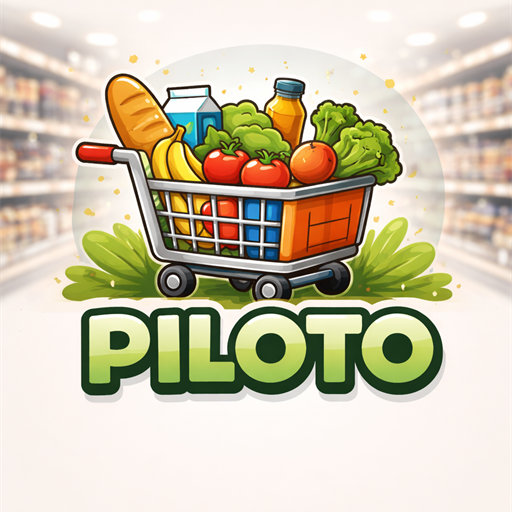
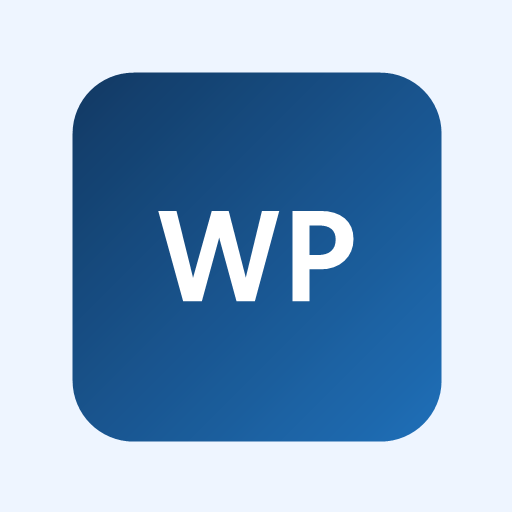
Updates

diff --git a/index.html b/index.html
@@ -19,8 +19,8 @@
         background: #eef5ff;
       }
     </style>
-    <script type="module" crossorigin src="/WebAgente/assets/index-BIW64e-C.js"></script>
-    <link rel="stylesheet" crossorigin href="/WebAgente/assets/index-DJ120FJy.css">
+    <script type="module" crossorigin src="/WebAgente/assets/index-ioangDfd.js"></script>
+    <link rel="stylesheet" crossorigin href="/WebAgente/assets/index-BY648xO2.css">
   </head>
   <body>
     <div id="root"></div>

diff --git a/sw.js b/sw.js
@@ -1,4 +1,4 @@
-const CACHE_NAME = 'webagente-cache-v4';
+const CACHE_NAME = 'webagente-cache-v5';
 const SW_SCOPE_PATH = self.location.pathname.replace(/sw\.js$/, '');
 const INDEX_FALLBACK = `${SW_SCOPE_PATH}index.html`;
 const APP_SHELL = [

diff --git a/assets/index-BY648xO2.css b/assets/index-BY648xO2.css
@@ -1,0 +1,1 @@
+:root{font-family:Segoe UI,Tahoma,Geneva,Verdana,sans-serif;color:#102a43;background-color:#f3f7fb}*{box-sizing:border-box}body{margin:0}html,body,#root{width:100%;max-width:100%;overflow-x:hidden}.sr-only{position:absolute;width:1px;height:1px;padding:0;margin:-1px;overflow:hidden;clip:rect(0,0,0,0);white-space:nowrap;border:0}.launch-shell{min-height:100vh;display:grid;place-items:center;padding:1rem;background:radial-gradient(circle at 20% 15%,rgba(66,153,225,.24),transparent 36%),radial-gradient(circle at 82% 82%,rgba(99,179,237,.2),transparent 34%),linear-gradient(145deg,#f7fbff,#eef5ff 42%,#f8fbff)}.launch-shell--overlay{position:fixed;top:0;right:0;bottom:0;left:0;z-index:9999}.launch-card{width:min(100%,420px);border:1px solid #d4e3f7;border-radius:18px;background:#ffffffeb;box-shadow:0 14px 36px #0f4c812e;padding:1.3rem 1rem 1rem;text-align:center;-webkit-backdrop-filter:blur(4px);backdrop-filter:blur(4px)}.launch-logo-wrap{position:relative;width:90px;height:90px;margin:0 auto .9rem;display:grid;place-items:center}.launch-logo-ring{position:absolute;top:0;right:0;bottom:0;left:0;border-radius:50%;border:3px solid rgba(66,153,225,.35);border-top-color:#1d5fa6;animation:launch-spin 1.2s linear infinite}.launch-logo{width:62px;height:62px;border-radius:16px;display:grid;place-items:center;font-size:1rem;font-weight:700;color:#fff;background:linear-gradient(135deg,#123963,#1f6fb8);box-shadow:0 10px 18px #0f4c8147}.launch-card h1{margin:0 0 .34rem;color:#102a43;font-size:1.3rem}.launch-card p{margin:0;color:#486581;font-size:.88rem}.launch-loader{margin:1rem auto 0;width:min(90%,280px);height:9px;border-radius:999px;background:#dbe9f7;overflow:hidden}.launch-loader span{display:block;width:40%;height:100%;border-radius:inherit;background:linear-gradient(90deg,#1b5e9f,#54a3df);animation:launch-slide 1.4s ease-in-out infinite}@keyframes launch-spin{to{transform:rotate(360deg)}}@keyframes launch-slide{0%{transform:translate(-120%)}50%{transform:translate(140%)}to{transform:translate(-120%)}}.home-shell{min-height:100vh;padding:.7rem;display:grid;place-items:start center}.home-card{background:#fff;border:1px solid #d7e3f0;border-radius:12px;padding:.85rem;max-width:1180px;margin:0 auto}.home-card--wide{width:100%;overflow-x:clip}.home-topbar{display:grid;grid-template-columns:auto 1fr auto;align-items:center;gap:.6rem;margin-bottom:.7rem}.home-topbar-brand{display:flex;align-items:center;gap:.45rem;min-width:0}.home-topbar-brand div{min-width:0}.home-topbar-brand strong{display:block;max-width:100%;white-space:nowrap;overflow:hidden;text-overflow:ellipsis}.home-desktop-nav{display:flex;justify-content:center;gap:.35rem}.home-desktop-nav button{border:1px solid #c5d2e2;background:#f8fbff;border-radius:999px;padding:.35rem .65rem;font-size:.76rem}.home-desktop-nav .home-desktop-nav-active{background:#0f4c81;border-color:#0f4c81;color:#fff}.home-user-menu{position:relative}.home-user-trigger{width:36px;height:36px;border-radius:999px;border:1px solid #c5d2e2;background:#f8fbff;display:grid;place-items:center;color:#1f4e79}.home-user-dropdown{position:absolute;top:calc(100% + .35rem);right:0;z-index:20;width:170px;border:1px solid #d7e3f0;border-radius:10px;background:#fff;padding:.5rem;box-shadow:0 8px 22px #102a431f}.home-user-dropdown p{margin:0 0 .45rem;color:#334e68;font-size:.78rem}.home-user-dropdown button{display:inline-flex;align-items:center;justify-content:center;gap:.35rem;width:100%;border:1px solid #e8b7b7;background:#fff6f6;color:#9b1c1c;border-radius:8px;padding:.4rem .5rem;font-size:.76rem}.home-user-dropdown-manual{border:1px solid #f2c37e!important;background:#fffaf0!important;color:#8a4b00!important;margin-bottom:.38rem}.home-user-dropdown-logout{border:1px solid #e8b7b7!important;background:#fff6f6!important;color:#9b1c1c!important}.store-brand-logo{width:32px;height:32px;border-radius:9px;background:linear-gradient(135deg,#0f4c81,#1f7cc7);color:#fff;display:grid;place-items:center;font-size:.72rem;font-weight:700}.store-brand-user{display:block;color:#5b708b;font-size:.72rem;max-width:130px;white-space:nowrap;overflow:hidden;text-overflow:ellipsis}.store-search input{width:100%;border:1px solid #c5d2e2;border-radius:999px;padding:.55rem .8rem;font-size:.86rem;min-width:0}.store-search--catalog{display:block;margin-bottom:.45rem;position:sticky;top:.35rem;z-index:12;background:#fff;padding:.25rem 0}.store-metrics{display:flex;gap:.4rem;overflow-x:auto;margin-bottom:.55rem}.store-metrics p{margin:0;border:1px solid #dce6f2;background:#f8fbff;border-radius:999px;padding:.25rem .55rem;font-size:.75rem;white-space:nowrap}.store-metrics-delivery--on{border-color:#8bd6b3!important;background:#eefaf3!important;color:#18794e!important}.store-metrics-delivery--off{border-color:#f1b4b4!important;background:#fff1f1!important;color:#b42318!important}.store-categories{display:grid;gap:.2rem;margin-bottom:.45rem}.store-category-select{color:#486581;font-size:.78rem;font-weight:600}.store-category-menu{position:relative}.store-category-trigger{width:100%;border:1px solid #c5d2e2;background:#fff;border-radius:10px;padding:.55rem .65rem;display:flex;justify-content:space-between;align-items:center;color:#102a43;font-size:.8rem}.store-category-panel{position:absolute;top:calc(100% + .25rem);left:0;right:0;z-index:25;border:1px solid #d7e3f0;background:#fff;border-radius:10px;box-shadow:0 8px 22px #102a431f;max-height:260px;overflow-y:auto;padding:.35rem}.store-category-option{width:100%;border:0;background:transparent;border-radius:8px;padding:.45rem .5rem;text-align:left;color:#243b53;font-size:.79rem}.store-category-option.active{background:#e8f1fb;color:#0b5b93;font-weight:700}.store-category-option--group{display:flex;justify-content:space-between;align-items:center}.store-category-subgroup{padding-left:.45rem}.store-category-option--sub{font-size:.76rem}.store-category-arrow{transition:transform .18s ease}.store-category-arrow.open{transform:rotate(180deg)}.home-error{color:#b42318;font-weight:600}.home-success{color:#067647;font-weight:600}.products-grid{list-style:none;padding:0;margin:1rem 0 0;display:grid;gap:.55rem;grid-template-columns:repeat(3,minmax(0,1fr))}.product-card{border:1px solid #dce6f2;border-radius:10px;padding:.45rem;display:grid;gap:.35rem;background:#fff;box-shadow:0 4px 14px #102a430f}.product-card-image-wrap{width:100%;min-height:0;border-radius:9px;overflow:hidden;background:#ecf3fb;position:relative}.product-card-image-wrap:before{content:"";display:block;padding-top:100%}.product-card-image{max-width:100%;max-height:100%;width:100%!important;height:100%!important;position:absolute;top:0;right:0;bottom:0;left:0;object-fit:cover;object-position:center center;display:block}.product-card-image--placeholder{position:absolute;top:0;right:0;bottom:0;left:0;display:grid;place-items:center;font-size:.72rem;color:#6c7a89;background:#ecf3fb}.product-card-name{font-size:.74rem;line-height:1.2;min-height:2.5em;display:-webkit-box;-webkit-line-clamp:2;-webkit-box-orient:vertical;overflow:hidden;color:#102a43}.product-card-price{color:#0b5b93;font-weight:700;font-size:.86rem}.product-card-add{border:1px solid #0b5b93;background:#0b5b93;color:#fff;border-radius:8px;padding:.38rem .3rem;font-size:.7rem;font-weight:600;width:100%}.product-card-edit{border:1px solid #486581;background:#f8fbff;color:#243b53;border-radius:8px;padding:.36rem .3rem;font-size:.7rem;font-weight:600;width:100%}.product-card-add--selected{border-color:#18794e;background:#18794e}.modal-backdrop{position:fixed;top:0;right:0;bottom:0;left:0;z-index:200;background:#102a4373;display:grid;place-items:center;padding:.6rem}.modal-card{width:min(100%,420px);background:#fff;border:1px solid #d7e3f0;border-radius:12px;padding:.8rem;box-shadow:0 10px 26px #102a4338}.modal-card h3{margin:0 0 .55rem}.modal-form{display:grid;gap:.55rem}.modal-form label{display:grid;gap:.22rem;font-size:.82rem;color:#334e68}.modal-form input,.modal-form select{border:1px solid #c5d2e2;border-radius:8px;padding:.42rem .5rem}.modal-actions{display:flex;gap:.45rem;justify-content:flex-end}.modal-actions button{border:1px solid #0f4c81;background:#0f4c81;color:#fff;border-radius:8px;padding:.42rem .62rem;font-size:.76rem}.modal-actions button[type=button]{border-color:#c5d2e2;background:#f8fbff;color:#334e68}.product-card-add:disabled{opacity:1;cursor:not-allowed}.catalog-toast{position:fixed;left:50%;transform:translate(-50%);bottom:calc(76px + env(safe-area-inset-bottom));z-index:160;margin:0;border:1px solid #b7ebca;background:#e9f9ef;color:#18794e;border-radius:999px;padding:.44rem .7rem;font-size:.78rem;font-weight:700;box-shadow:0 8px 20px #102a4324;pointer-events:none;white-space:nowrap}@media (min-width: 761px){.catalog-toast{bottom:1rem}}.inactive-shell{margin-top:.4rem}.inactive-header{display:flex;justify-content:space-between;align-items:baseline;gap:.5rem}.inactive-header h2,.inactive-header p{margin:0}.inactive-header p{color:#5b708b;font-size:.9rem}.inactive-tag{font-size:.72rem;color:#9f1239;font-weight:700}.inactive-actions{display:flex;justify-content:center;margin-top:.8rem}.inactive-actions button{border:1px solid #0f4c81;background:#0f4c81;color:#fff;border-radius:999px;padding:.45rem .9rem;font-size:.82rem}.inactive-actions button:disabled{opacity:.7}.products-load-sentinel{height:1px}.catalog-v2-category-wrap{display:grid;gap:.32rem;margin:.55rem 0 .75rem}.catalog-v2-category-label{font-size:.76rem;font-weight:700;color:#334e68}.catalog-v2-category-select{border:1px solid #c5d2e2;border-radius:10px;background:#f8fbff;color:#102a43;font-size:.82rem;padding:.5rem .62rem}.cart-panel{margin-top:.85rem;border:1px solid #dce6f2;border-radius:14px;padding:.85rem;background:linear-gradient(180deg,#fff,#f9fcff);box-shadow:0 8px 24px #102a4314}.cart-panel-header{display:flex;justify-content:space-between;align-items:center;gap:.5rem}.cart-panel-header h2{margin:0;font-size:1rem}.cart-panel-header span{background:#e8f1fb;color:#0b5b93;border:1px solid #c6def3;border-radius:999px;font-size:.74rem;font-weight:700;padding:.2rem .5rem}.cart-list{list-style:none;padding:0;margin:.75rem 0;display:grid;gap:.55rem}.cart-item{border:1px solid #dce6f2;border-radius:10px;padding:.62rem;display:grid;grid-template-columns:56px 1fr auto;align-items:center;gap:.5rem;background:#fff;box-shadow:0 3px 10px #102a430d}.cart-actions{display:flex;gap:.35rem;align-items:center}.cart-item-thumb{width:56px;height:56px;border-radius:10px;object-fit:cover;border:1px solid #d7e3f0;background:#eef4fb}.cart-item-thumb--placeholder{display:grid;place-items:center;font-size:.62rem;color:#6c7a89}.cart-item-info{display:grid;gap:.15rem}.cart-item-info strong{font-size:.82rem;color:#102a43}.cart-item-info span{font-size:.74rem;color:#486581}.cart-qty-button{width:30px;height:30px;border-radius:8px;border:1px solid #b6d3ef;background:#f3f8fd;color:#0b5b93;font-weight:700}.cart-total{display:flex;justify-content:space-between;align-items:center;margin:.35rem 0 .2rem;border:1px solid #c6def3;background:#eef6ff;border-radius:10px;padding:.55rem .65rem}.cart-total span{color:#486581;font-size:.8rem}.cart-total strong{color:#0b5b93;font-size:1rem}.checkout-options-block{margin:.62rem 0}.checkout-options-title{margin:0 0 .35rem;font-size:.8rem;color:#334e68}.checkout-options-hint{margin:0 0 .38rem;font-size:.72rem;color:#b42318}.checkout-options-grid{display:grid;grid-template-columns:repeat(2,minmax(0,1fr));gap:.4rem}.checkout-options-grid--two{grid-template-columns:repeat(2,minmax(0,1fr))}.checkout-option{border:1px solid #c5d2e2;background:#f8fbff;color:#334e68;border-radius:10px;padding:.45rem .5rem;min-height:44px;display:grid;grid-template-columns:auto 1fr auto;align-items:center;gap:.35rem;font-size:.76rem;font-weight:700}.checkout-option:disabled{opacity:.6;cursor:not-allowed}.checkout-option-icon{width:20px;height:20px;display:grid;place-items:center;color:#486581}.checkout-option-check{width:18px;height:18px;border-radius:999px;border:1px solid #c9d7e5;display:grid;place-items:center;color:transparent;background:#fff}.checkout-option-check--visible{color:#0f8a55;border-color:#8bd6b3;background:#e8f8f0}.checkout-option--selected{border-color:#8bd6b3;background:#eefaf3;color:#18794e}.checkout-option--selected .checkout-option-icon{color:#18794e}.cart-submit-button{width:100%;border:none;border-radius:12px;padding:.7rem .8rem;font-size:.84rem;font-weight:700;color:#fff;background:linear-gradient(135deg,#0b5b93,#0f4c81);box-shadow:0 10px 20px #0b5b934d}.cart-submit-button:disabled{opacity:.65;box-shadow:none}.auth-card{width:min(100%,460px);background:#fff;border:1px solid #d7e3f0;border-radius:12px;padding:1.25rem}.auth-switch{display:flex;gap:.5rem;margin:.75rem 0}.auth-switch button{border:1px solid #c5d2e2;background:#f8fbff;border-radius:8px;padding:.45rem .7rem}.auth-form{display:grid;gap:.75rem}.auth-form label{display:grid;gap:.35rem}.auth-form input{border:1px solid #c5d2e2;border-radius:8px;padding:.45rem .55rem}.auth-form button{border:1px solid #0f4c81;background:#0f4c81;color:#fff;border-radius:8px;padding:.55rem .75rem}.auth-form button:disabled{opacity:.65}.auth-remember{display:flex!important;align-items:center;gap:.45rem!important;font-size:.92rem;color:#334e68}.auth-remember input[type=checkbox]{width:16px;height:16px}.auth-error{color:#b42318;margin-top:.65rem;font-weight:600}.auth-password-rules{margin:0;padding-left:1rem;display:grid;gap:.2rem;color:#5b708b;font-size:.9rem}.auth-password-rules .ok{color:#067647;font-weight:600}.mobile-bottom-nav{position:fixed;left:0;right:0;bottom:max(0px,env(safe-area-inset-bottom));z-index:120;width:100vw;max-width:100vw;display:none;grid-template-columns:repeat(3,minmax(0,1fr));gap:.3rem;padding:.45rem .45rem calc(.45rem + env(safe-area-inset-bottom));border-radius:12px 12px 0 0;border:1px solid #d7e3f0;border-bottom:0;background:#fffffff2;box-shadow:0 -4px 18px #102a431a}.mobile-bottom-nav button{border:none;background:transparent;border-radius:10px;padding:.5rem .3rem;min-height:56px;font-size:.68rem;font-weight:600;color:#486581;display:grid;place-items:center;gap:.18rem}.mobile-bottom-nav button span{display:inline-flex;align-items:center;gap:.3rem}.mobile-bottom-nav .mobile-bottom-nav-active{background:#0f4c81;color:#fff}.mobile-nav-badge{display:inline-grid;place-items:center;min-width:18px;height:18px;border-radius:999px;background:#d9ecff;color:#0f4c81;font-size:.62rem;font-weight:700;padding:0 5px}@media (min-width: 900px){.home-shell,.home-card{padding:1rem}.product-card-name{font-size:.8rem}}@media (max-width: 760px){.home-topbar{grid-template-columns:minmax(0,1fr) auto;gap:.45rem}.home-desktop-nav{display:none}.mobile-bottom-nav{display:grid}.home-card{padding-bottom:6.1rem}.store-metrics{flex-wrap:nowrap}}@media (max-width: 460px){.home-shell{padding:.28rem}.home-card{padding:.42rem .42rem 6rem;border-radius:10px}.home-topbar-brand{gap:.35rem}.store-brand-logo{width:28px;height:28px;font-size:.64rem}.home-topbar-brand strong{font-size:.82rem}.store-brand-user{font-size:.66rem;max-width:104px}.home-user-trigger{width:32px;height:32px}.products-grid{gap:.34rem}.store-search--catalog{top:0;margin-bottom:.35rem;padding:.18rem 0}.store-search input{padding:.46rem .6rem;font-size:.8rem}.store-metrics{display:grid;grid-template-columns:repeat(2,minmax(0,1fr));gap:.24rem;overflow:visible;margin-bottom:.4rem}.store-metrics p{width:100%;text-align:center;font-size:.66rem;padding:.2rem .32rem;min-width:0}.store-metrics p:last-child{display:block}.store-categories{margin-bottom:.35rem}.store-category-select{font-size:.72rem}.store-category-trigger{padding:.44rem .52rem;font-size:.76rem}.product-card{padding:.3rem}.mobile-bottom-nav button{min-height:52px;font-size:.64rem;gap:.12rem;padding:.42rem .2rem}}@media (max-width: 430px){.home-shell{padding:.3rem}.home-card{padding:.45rem .45rem 5.2rem;border-radius:10px}.products-grid{gap:.35rem}.product-card{padding:.3rem;border-radius:8px}.product-card-name{font-size:.64rem;min-height:2.1em}.product-card-price{font-size:.72rem}.product-card-add{font-size:.64rem;padding:.28rem .16rem}.cart-item{grid-template-columns:48px 1fr auto;gap:.4rem;padding:.5rem}.cart-item-thumb{width:48px;height:48px}}@media (max-width: 360px){.home-card{padding:.35rem .35rem 5.1rem}.store-search input{padding:.48rem .62rem;font-size:.8rem}.store-metrics p{font-size:.68rem;padding:.22rem .45rem}.store-category-trigger{padding:.48rem .55rem;font-size:.75rem}.products-grid{gap:.3rem}.product-card-image-wrap{border-radius:7px}}.orders-panel{margin-top:.85rem;border:1px solid #dce6f2;border-radius:14px;padding:.85rem;background:linear-gradient(180deg,#fff,#f9fcff);box-shadow:0 8px 24px #102a4314}.orders-panel-header{display:flex;justify-content:space-between;align-items:center;gap:.5rem}.orders-panel-header h2{margin:0;font-size:1rem}.orders-panel-header span{background:#e8f1fb;color:#0b5b93;border:1px solid #c6def3;border-radius:999px;font-size:.74rem;font-weight:700;padding:.2rem .5rem}.orders-list{list-style:none;padding:0;margin:.75rem 0;display:grid;gap:.55rem}.orders-accordion-actions{display:flex;justify-content:center;margin-top:.2rem}.orders-accordion-toggle{border:1px solid #b6d3ef;background:#f3f8fd;color:#0b5b93;border-radius:999px;padding:.32rem .74rem;font-size:.74rem;font-weight:700}.orders-item{border:1px solid #dce6f2;border-radius:10px;padding:.62rem;background:#fff;box-shadow:0 3px 10px #102a430d}.orders-item-top{display:flex;justify-content:flex-start;align-items:center;gap:.5rem;flex-wrap:wrap}.orders-item-main{border:none;background:transparent;padding:0;margin:0;display:grid;gap:.1rem;text-align:left}.orders-item-main span{font-size:.72rem;color:#6b7f95}.orders-detail-toggle{border:1px solid #b6d3ef;background:#f3f8fd;color:#0b5b93;border-radius:999px;padding:.24rem .55rem;font-size:.72rem;font-weight:700}.orders-hide-button{width:26px;height:26px;border-radius:999px;border:1px solid #e9bcbc;background:#fff5f5;color:#9b1c1c;font-size:1rem;line-height:1;display:grid;place-items:center;padding:0}.orders-hide-button:disabled{border-color:#d7dfe8;background:#f6f8fb;color:#9aa8b8;cursor:not-allowed}.orders-item-total{margin:.45rem 0 0;color:#334e68;font-size:.82rem;font-weight:600}.orders-item-details{list-style:none;margin:.55rem 0 0;padding:.45rem .5rem;border:1px solid #dce6f2;background:#f8fbff;border-radius:8px;display:grid;gap:.35rem}.orders-item-details li{display:flex;gap:.35rem;align-items:baseline}.orders-item-details li span{min-width:34px;color:#486581;font-size:.74rem}.orders-item-details li strong{color:#102a43;font-size:.78rem}.orders-item-details-empty{color:#6b7f95;font-size:.74rem}.orders-status{border-radius:999px;padding:.18rem .48rem;font-size:.7rem;font-weight:700;border:1px solid transparent}.orders-status--pendiente{background:#fff7e6;color:#9a6700;border-color:#f7d9a2}.orders-status--confirmado,.orders-status--en_proceso{background:#e6f6ff;color:#055f8a;border-color:#b8def1}.orders-status--listo{background:#eff6ff;color:#1d4ed8;border-color:#bfdbfe}.orders-status--entregado{background:#e9f9ef;color:#18794e;border-color:#b9e2ca}.orders-status--cancelado{background:#fff0f0;color:#b42318;border-color:#f3c2c2}